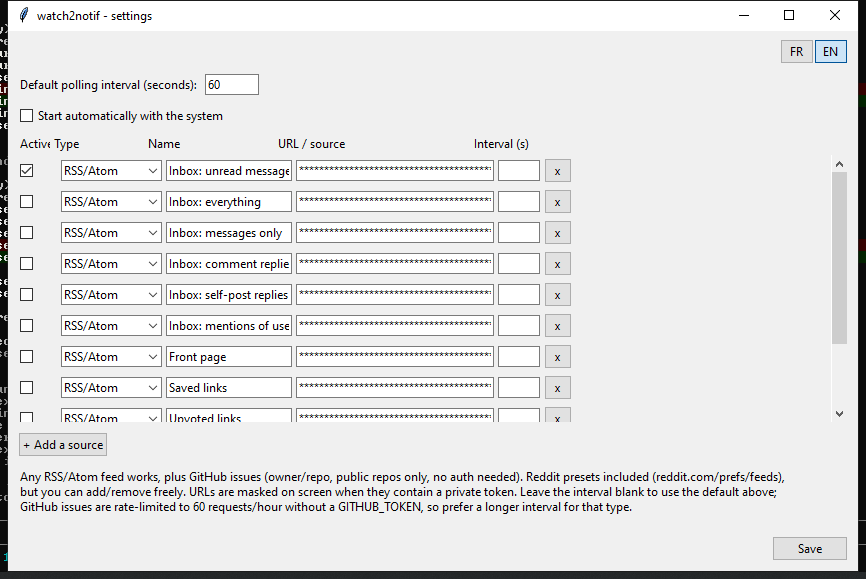
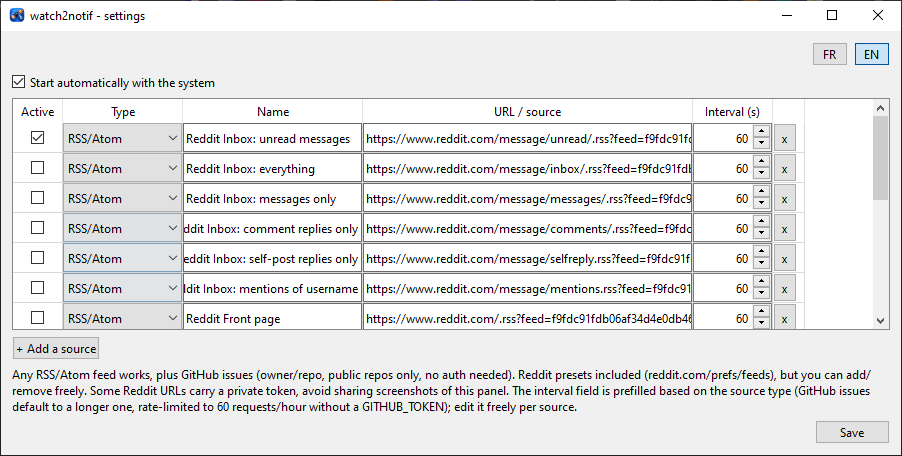
Met a jour les captures d'ecran (reglages, tray, historique)
Claude-Session: https://claude.ai/code/session_01L6v6KBoYPsBxLg6o8D9nFX

Changed region(s): [[0.0, 0.0, 1.0, 1.0], [0.8418, 0.0, 0.873, 0.0307]]

diff --git a/README.fr.md b/README.fr.md
@@ -12,9 +12,11 @@ RSS/Atom fonctionne, plus les issues GitHub sur les repos publics (pas
 d'auth necessaire). Ajouter un nouveau type de source = ajouter un module
 dans `providers/`, rien d'autre a toucher.
 
-## Capture d'ecran
+## Captures d'ecran
 
 ![Panneau de reglage](screenshots/settings.png)
+![Menu du tray](screenshots/systray.png)
+![Historique des notifications](screenshots/history.png)
 
 ## Fonctionnement
 

diff --git a/README.md b/README.md
@@ -11,9 +11,11 @@ reddit.com/prefs/feeds), then generalized: any RSS/Atom feed works, plus
 GitHub issues polling for public repos (no auth needed). New source types
 are added as a `providers/` module, nothing else to touch.
 
-## Screenshot
+## Screenshots
 
 ![Settings panel](screenshots/settings_en.png)
+![Tray menu](screenshots/systray_en.png)
+![Notification history](screenshots/history_en.png)
 
 ## How it works
 
